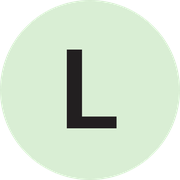
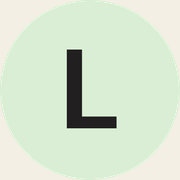
O ícone da tela de início ganha o fundo claro, e o manifesto nomeia o site (decisão 188)
O iOS pinta de preto o transparente do apple-touch-icon: agora o círculo fica
sobre bg/page claro. O manifest.webmanifest é gerado com o nome de
quem-sou-eu.md e a cor de tokens.json, e declara os ícones de 192, 512 e o SVG.

diff --git a/docs/log-de-decisoes.md b/docs/log-de-decisoes.md
@@ -6308,3 +6308,32 @@ que se lê é o L.
 
 **Consequência.** O SVG que o Figma exporta traz o fundo da página e da seção por trás do círculo;
 o arquivo publicado foi limpo à mão para conter só o círculo e o L, e os PNGs foram gerados dele.
+
+---
+
+## 188 · O ícone da tela de início ganha o fundo claro, e o manifesto nomeia o site
+
+**Quando** 2026-10-01 · **Fase** 4 · **Domínio** moldura · `#restricao`
+
+**Gatilho.** Publicado o ícone de aba (187), sobraram duas pontas. O iOS não aceita transparência
+no `apple-touch-icon` e pinta de preto o que é transparente: o círculo apareceria sobre um
+quadrado preto. E os PNGs de 192 e 512 entraram no repositório sem nada que os usasse, porque só
+um manifesto os declara, e o manifesto pede nome e cores que ninguém tinha decidido.
+
+**Decisão.** Ela respondeu nas duas: *"usa a cor clara o bg"* e *"nomeia eles"*. O
+`apple-touch-icon.png` ganha o fundo claro da página, `bg/page` do tema claro (`#F4EFE4`), atrás
+do círculo; o desenho do círculo e do L não muda. O site ganha `manifest.webmanifest`, com nome
+**Larissa Quadros**, nome curto **Larissa** (os mesmos de `quem-sou-eu.md`, o curto é o da
+barra), e os ícones de 192, 512 e o SVG. Fundo e cor de tema do manifesto usam a mesma cor clara.
+
+**Alternativa descartada.** *Deixar transparente*: o preto do iOS é o pior resultado, uma cor que
+ninguém escolheu. *Fundo verde do círculo*: some a forma redonda que é o próprio ícone. *Apagar os
+PNGs grandes*: eles foram produzidos para isto, e sem manifesto o Android e o "Adicionar à tela
+de início" ficam sem nome nem ícone grande.
+
+**Custo aceito.** No tema escuro, quem fixa o site vê o ícone sobre o creme. É um ícone só para os
+dois temas desde a 187, e a tela de início não acompanha o tema do site.
+
+**Consequência.** O manifesto é gerado pela construção, a partir de `quem-sou-eu.md` e de
+`tokens.json`, e não existe como arquivo escrito à mão. Todas as páginas o declaram. O PNG
+original, transparente, não foi apagado do histórico: está no commit da 187.
